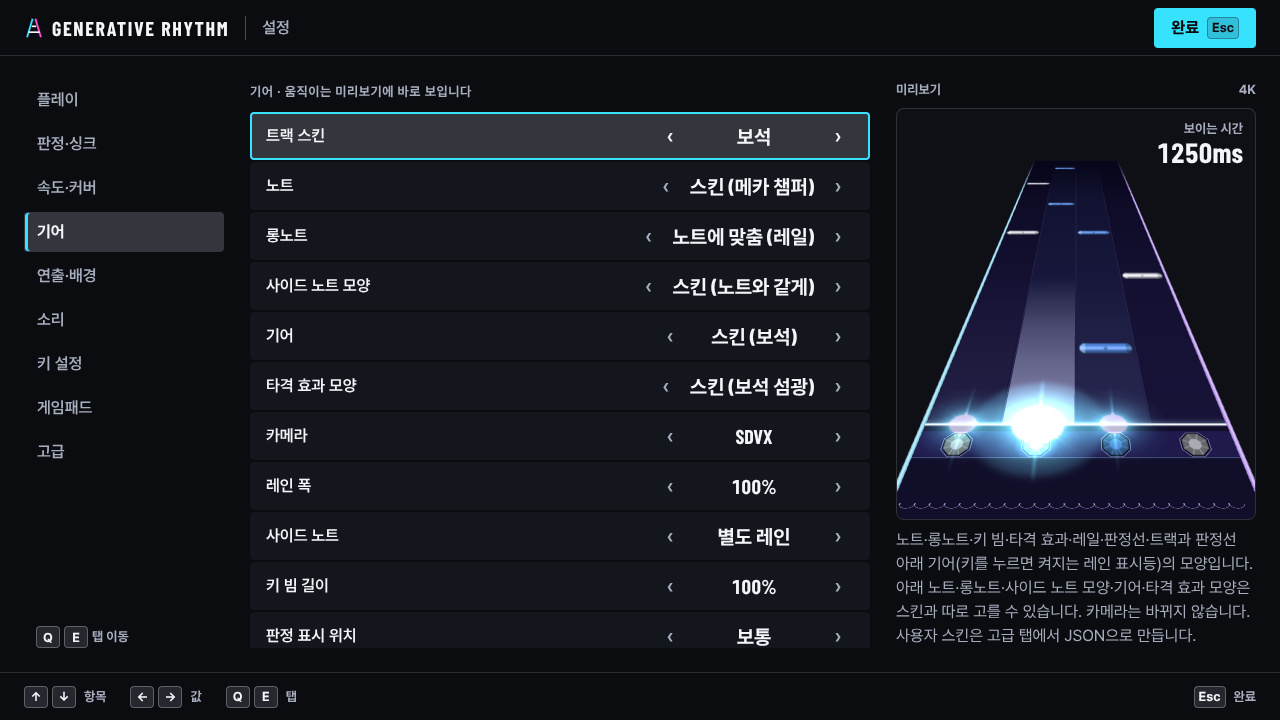
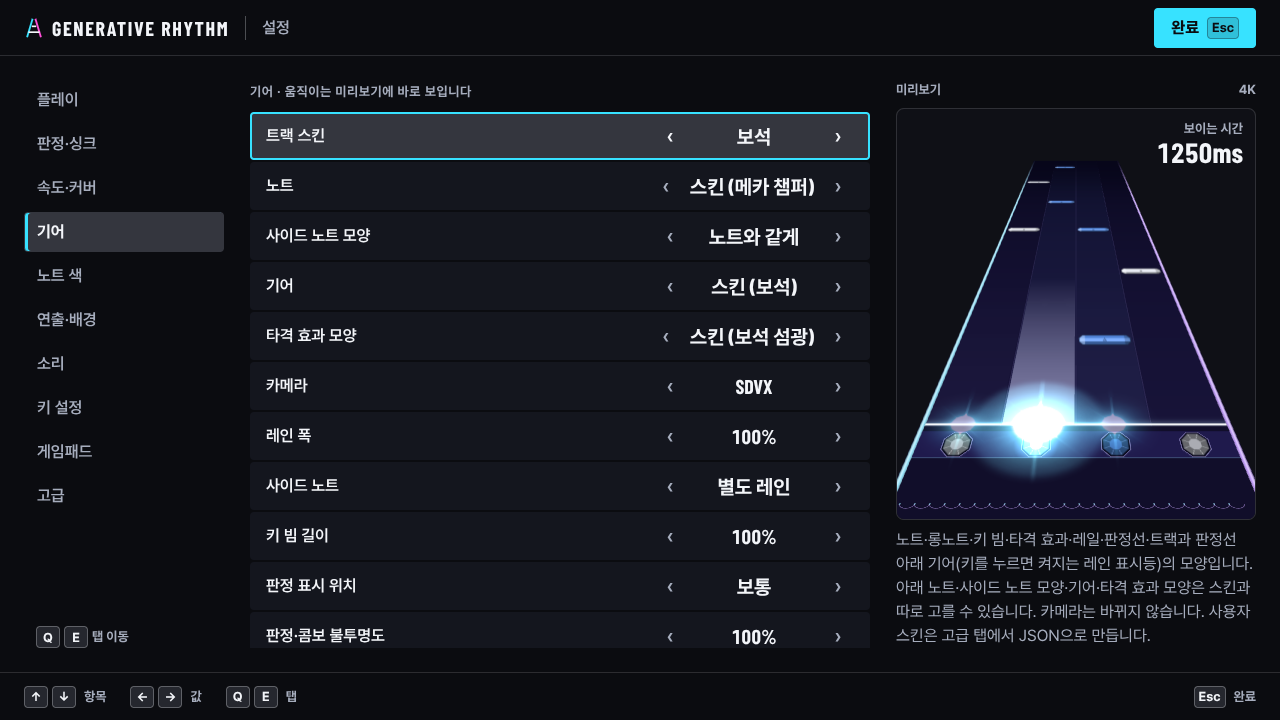
Docs: note colours by lane, long notes that go with the note, and the side notes' two shapes
README: the 노트 색 tab in the settings list and a paragraph of its own
(presets, the lanes, the box, the hue bar, HEX and the rows, the copy a
changed preset of the game makes, naming and deleting), the gear tab
without its 롱노트 row, the side notes' two shapes, 모두 초기화 keeping
the player's presets, and the test counts (307 unit, 83 e2e). A new
screenshot, 27-settings-colors, of the tab with 좌우 손 and a lane chosen.

ARCHITECTURE: render/noteColors.ts, the renderer's laneColors and
setLaneColors, the draft colours the preview shows, parts without a long
note or a skin's side shape, and a row for this change. TESTING: the
manual checks of the tab, and of the gear tab's rows as they are now.

고친 문제:
- README·ARCHITECTURE·TESTING이 롱노트 줄과 사이드 노트 모양의 "스킨" 선택지를 설명하고 노트 색은 다루지 않았다. 지금 화면대로 고치고 노트 색 탭과 스크린샷을 더했다.

Claude-Session: https://claude.ai/code/session_01BwEeGPydwWxbHMk4SP9G9k

diff --git a/client/e2e/screenshots.spec.ts b/client/e2e/screenshots.spec.ts
@@ -428,6 +428,12 @@ test('settings and calibration', async ({ page }) => {
   await page.getByTestId('opt-note-style').focus();
   await page.waitForTimeout(1500);
   await shot(page, '26-settings-parts');
+  // the note colours: a preset, one lane chosen and its colour on the box, the hue bar and the rows
+  await settingsTab(page, 'colors');
+  await chooseSetting(page, 'opt-color-preset', 'hands');
+  await page.getByTestId('color-lane-2').focus();
+  await page.waitForTimeout(1500);
+  await shot(page, '27-settings-colors');
 
   await page.goto('/');
   await tool(page, 'open-calibration');
